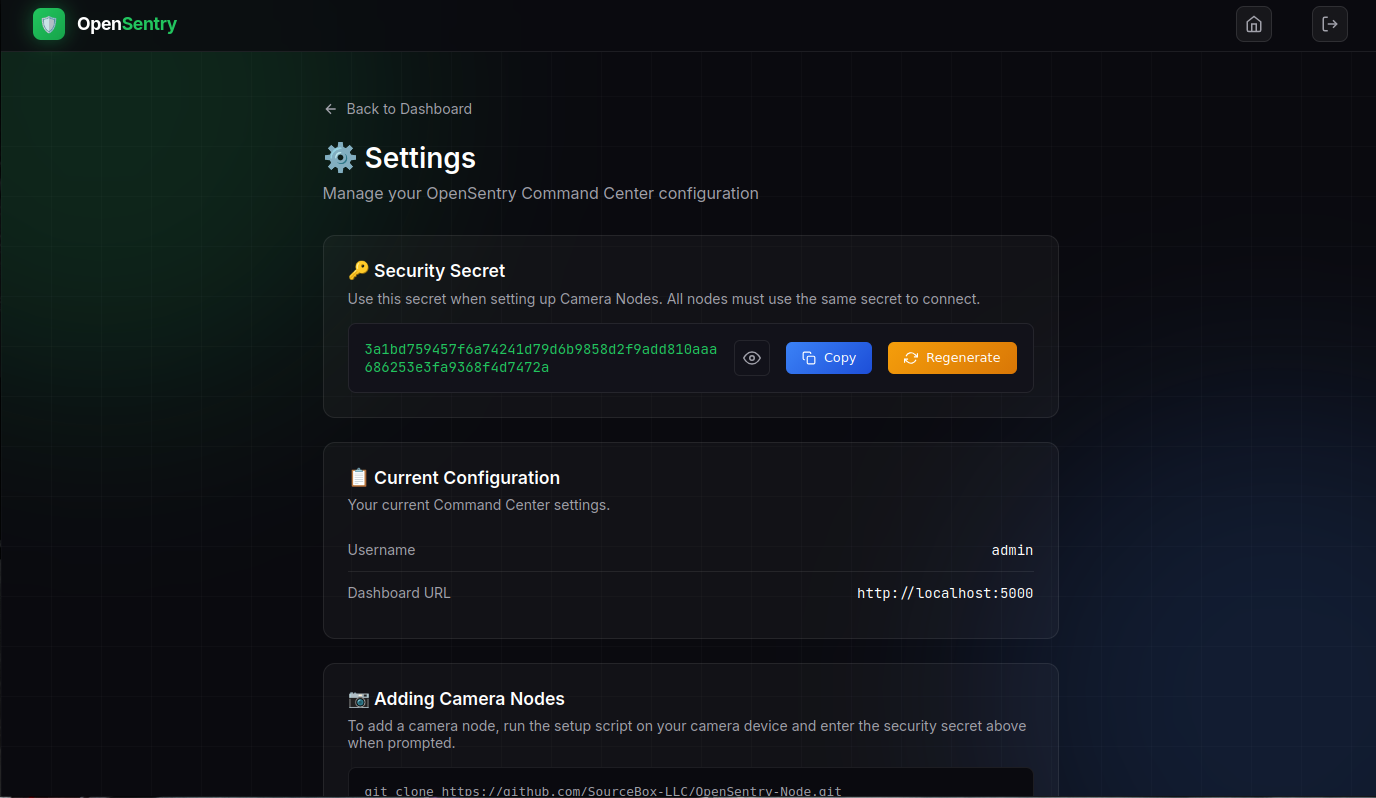
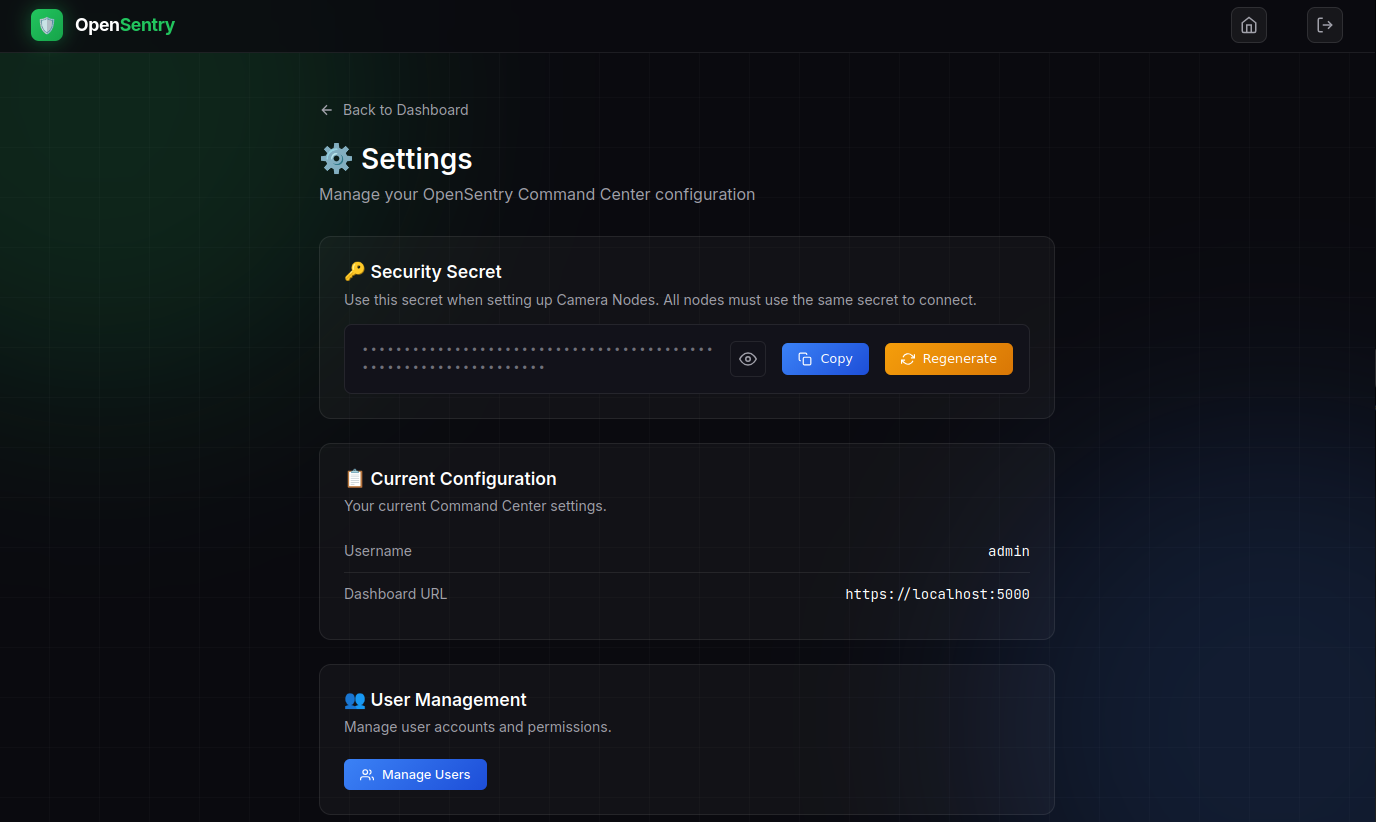
docs: add user management section to README with role descriptions and screenshot
- Add User Management section after Access Settings with admin/viewer role descriptions
- Add user-management.png screenshot showing account creation interface
- Update settings-page.png screenshot to reflect current UI
- Position user management documentation before camera auto-discovery note

diff --git a/README.md b/README.md
@@ -100,6 +100,14 @@ The Command Center starts automatically:
 
 ![Settings Page](docs/images/settings-page.png)
 
+### User Management
+
+Admins can create and manage user accounts from **Settings → Manage Users**:
+- **Admin** role: Full access to all features
+- **Viewer** role: View-only access to camera streams
+
+![User Management](docs/images/user-management.png)
+
 Cameras auto-discover within 30 seconds.
 
 ---
